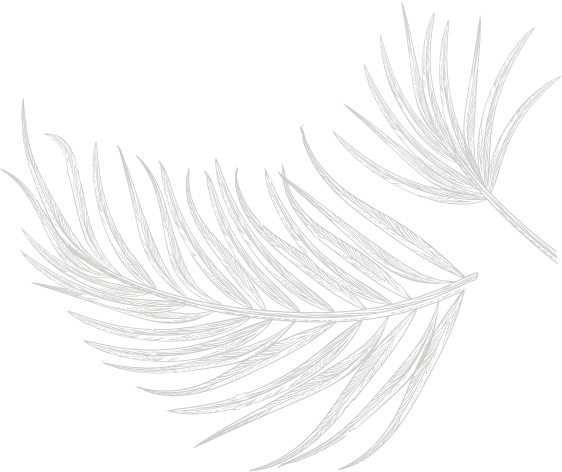
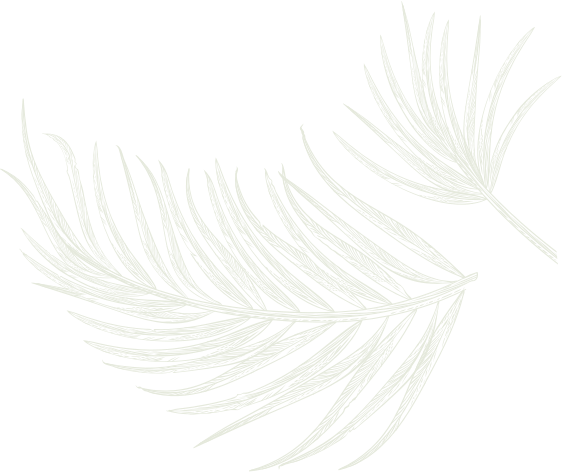
wip design changes

diff --git a/src/assets/sass/_variables.scss b/src/assets/sass/_variables.scss
@@ -33,90 +33,90 @@ $pink:                                                #ee85b5;
 $red:                                                 #be404c;
 $orange:                                              #df9659;
 $yellow:                                              #dfbb4e;
-$green:                                               #274035;
+$green:                                               #333333;
 $teal:                                                #5f8f81;
 $cyan:                                                #397782;
 
 $gray:                                                #979797;
 $gray-light:                                          #e0e0e0;
-$gray-dark:                                           #79766f;
+$gray-dark:                                           #000;
 
-$light:                                               #f9f9f9;
-$dark:                                                #274035;
+$light:                                               #fbfcfb;
+$dark:                                                #333333;
 
 $metallic-seaweed:                                    #047887;
 
 // Body
-$body_text_primary_color:                             #706e67;
-$body_text_secondary_color:                           #274035;
+$body_text_primary_color:                             #000;
+$body_text_secondary_color:                           #333333;
 $body_text_tertiary_color:                            #ffffff; // For dark background
 $body_headline_color:                                 $metallic-seaweed;
-$body_links_color:                                    #274035;
-$body_links_hover_color:                              #8d9893;
+$body_links_color:                                    #333333;
+$body_links_hover_color:                              #34503d;
 $body_background_color:                               #fff;
 
-$body_main_element_primary_color:                     #274035;
+$body_main_element_primary_color:                     #333333;
 $body_main_element_secondary_color:                   #000000;
 $body_border_color:                                   #e0e0e0;
 $body_mark_background:                                #fcf8e3;
 
 // Header
-$header_color:                                        #274035;
+$header_color:                                        #333333;
 $header_background_color:                             #fff;
 
 // Footer
-$footer_color:                                        #274035;
+$footer_color:                                        #333333;
 $footer_background_color:                             #fff;
 
 // Breadcrumb
-$breadcrumb_color:                                    #274035;
-$breadcrumb_hover_color:                              #8d9893;
-$breadcrumb_active_color:                             #8d9893;
-$breadcrumb_divider_color:                            #274035;
+$breadcrumb_color:                                    #333333;
+$breadcrumb_hover_color:                              #34503d;
+$breadcrumb_active_color:                             #34503d;
+$breadcrumb_divider_color:                            #333333;
 $breadcrumb_bg:                                       transparent;
 
 // Menu
-$menu_links_color:                                    #274035;
-$menu_links_hover_color:                              #8d9893;
-$menu_links_active_color:                             #8d9893;
+$menu_links_color:                                    #333333;
+$menu_links_hover_color:                              #34503d;
+$menu_links_active_color:                             #34503d;
 
 // Menu primary
-$menu_primary_links_color:                            #274035;
-$menu_primary_links_hover_color:                      #8d9893;
-$menu_primary_links_active_color:                     #8d9893;
+$menu_primary_links_color:                            #333333;
+$menu_primary_links_hover_color:                      #34503d;
+$menu_primary_links_active_color:                     #34503d;
 
 // Dropdown
-$dropdown_links_color:                                #274035;
+$dropdown_links_color:                                #333333;
 $dropdown_links_hover_color:                          #ffffff;
 $dropdown_links_active_color:                         #ffffff;
 $dropdown_links_background_color:                     #fff;
-$dropdown_links_hover_background_color:               #274035;
-$dropdown_links_active_background_color:              #274035;
+$dropdown_links_hover_background_color:               #333333;
+$dropdown_links_active_background_color:              #333333;
 
 // Forms
-$input_text_color:                                    #79766f;
-$input_border_focus_color:                            #274035;
-$input_placeholder_color:                             #79766f;
-$label_color:                                         #274035;
+$input_text_color:                                    #000;
+$input_border_focus_color:                            #333333;
+$input_placeholder_color:                             rgba(0,0,0,.5);
+$label_color:                                         #333333;
 
 // Form primary
 $input_background_primary_color:                      transparent;
 $input_border_primary_color:                          #979797;
 
 // Form secondary
-$input_background_secondary_color:                    #f9f9f9;
+$input_background_secondary_color:                    #fbfcfb;
 $input_border_secondary_color:                        transparent;
 
 // Masonry gallery
-$masonry_gallery_filter_button_color:                 #274035;
-$masonry_gallery_filter_button_hover_color:           #8d9893;
-$masonry_gallery_filter_button_active_color:          #274035;
+$masonry_gallery_filter_button_color:                 #333333;
+$masonry_gallery_filter_button_hover_color:           #34503d;
+$masonry_gallery_filter_button_active_color:          #333333;
 
-$masonry_gallery_item_background_color:               #f9f9f9;
-$masonry_gallery_item_title_color:                    #274035;
-$masonry_gallery_item_description_color:              #79766f;
-$masonry_gallery_item_btn_color:                      #274035;
-$masonry_gallery_item_btn_hover_color:                #8d9893;
+$masonry_gallery_item_background_color:               #fbfcfb;
+$masonry_gallery_item_title_color:                    #333333;
+$masonry_gallery_item_description_color:              #000;
+$masonry_gallery_item_btn_color:                      #333333;
+$masonry_gallery_item_btn_hover_color:                #34503d;
 
 // Modals
 $modal_background_color:                              #fff;
@@ -127,9 +127,9 @@ $card_border_color:                                   transparent;
 $card_background_color:                               transparent;
 
 // Widget
-$widget_background_color:                             #f9f9f9;
+$widget_background_color:                             #fbfcfb;
 $widget_border_color:                                 transparent;
-$widget_headline_color:                               #274035;
+$widget_headline_color:                               #333333;
 
 // Slider
 $slider_button_color:                                 #ffffff;
@@ -149,10 +149,10 @@ $RECOLETA_b:                                         'Recoleta-Bold', sans-serif
 
 $font_primary:                                        $LATO;
 $font_primary_bold:                                   $LATO_b;
-$font_secondary:                                      $PLAYD;
+$font_secondary:                                      $LATO;
 $font_secondary_bold:                                 $RECOLETA_b;
 
-$font_menu_primary:                                   $PLAYD_b;
+$font_menu_primary:                                   $RECOLETA_b;
 
 $f_size_sm:                                           0.684rem; // 13px
 $f_size_df:                                           0.789rem; // 15px

diff --git a/src/blocks/contacts/ContactMe2.js b/src/blocks/contacts/ContactMe2.js
@@ -1,12 +1,12 @@
 import React from "react";
 import styled from "styled-components";
 
-import { useHistory } from 'react-router-dom'
+import { useHistory } from "react-router-dom";
 
 const RSPVTrigger = styled.div`
   text-align: center;
   margin: 0;
-  padding: 35px 70px;
+  padding: 20px 70px;
   background: rgba(255, 255, 255, 0.75);
 
   button {
@@ -30,10 +30,14 @@ const ContactMe2 = () => {
           </div>
         </div>
 
-        <RSPVTrigger
-          className="contact-me-title"
-        >
-          <button onClick={() => history.push('/rsvp')} className="btn btn-outline-primary">RSVP</button>
+        <RSPVTrigger className="contact-me-title">
+          <button
+            onClick={() => history.push("/rsvp")}
+            className="btn btn-outline-primary"
+            style={{ minHeight: "70px" }}
+          >
+            RSVP
+          </button>
           {/* <a className="large" href={process.env.PUBLIC_URL + "/rsvp"}>RSVP</a> */}
         </RSPVTrigger>
       </div>

diff --git a/src/pages/Travel.js b/src/pages/Travel.js
@@ -38,7 +38,12 @@ const Travel = () => {
       <main id="main" className="site-main">
         <PageTitleTravel />
 
-        <div id="about-img" className="block spacer p-top-lg">
+
+        <div id="page-content">
+          <div className="wrapper">
+            <div className="content">
+              <div className="clearfix">
+              <div id="about-img" className="block spacer p-top-lg">
                   <div className="about-img">
                     <iframe
                       title="Celestine Map"
@@ -51,11 +56,6 @@ const Travel = () => {
                     ></iframe>{" "}
                   </div>
                 </div>
-
-        <div id="page-content">
-          <div className="wrapper">
-            <div className="content">
-              <div className="clearfix">
                 <TravelContent />
               </div>
             </div>
